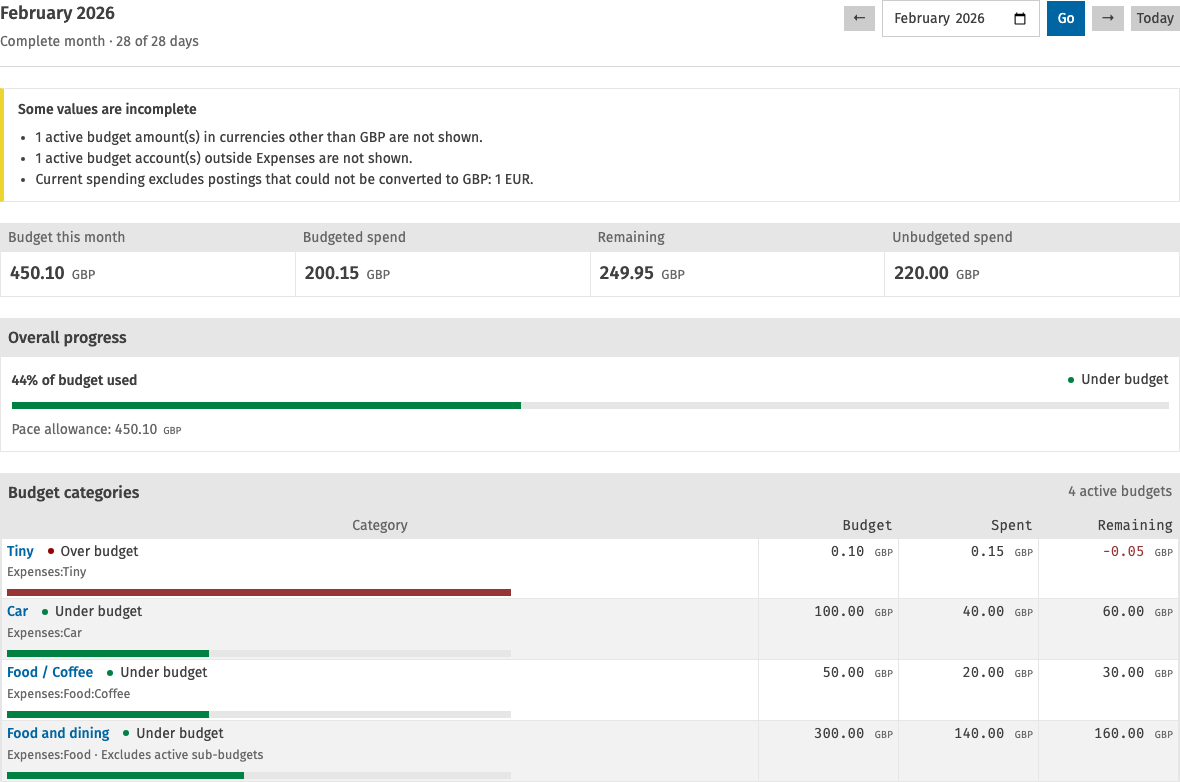
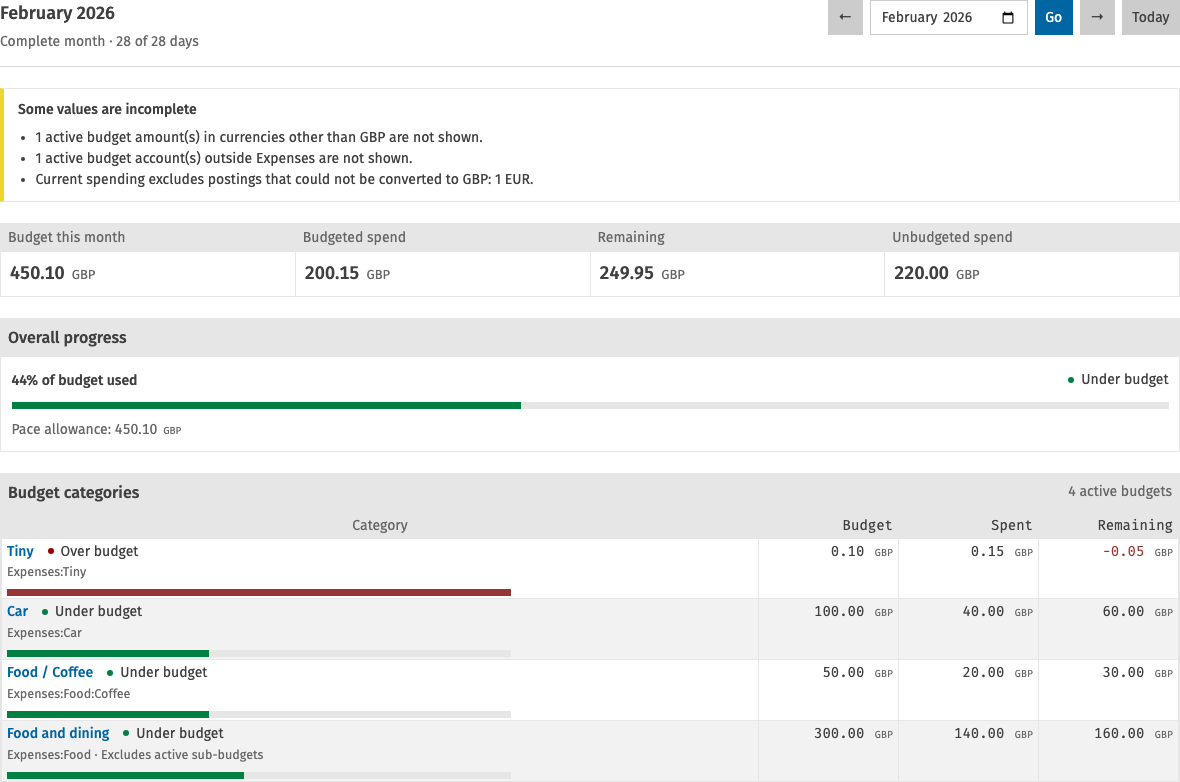
Tighten Fava compatibility and licensing

Changed region(s): [[0.7017, 0.0, 1.0, 0.0614]]

diff --git a/src/fava_budget/templates/Budget.html b/src/fava_budget/templates/Budget.html
@@ -89,6 +89,17 @@
     justify-content: flex-end;
   }
 
+  .budget-page .budget-nav :is(a.button, button, input) {
+    height: 2.5em;
+  }
+
+  .budget-page .budget-nav a.button {
+    display: inline-flex;
+    align-items: center;
+    justify-content: center;
+    padding: 0.5em 0.75em;
+  }
+
   .budget-page .budget-month-form {
     margin: 0;
   }
@@ -356,7 +367,7 @@
     outline-offset: 2px;
   }
 
-  @media (width <= 850px) {
+  @media (width <= 980px) {
     .budget-page .budget-report-heading {
       flex-direction: column;
     }
@@ -371,7 +382,7 @@
     }
   }
 
-  @media (width <= 650px) {
+  @media (width <= 980px) {
     .budget-page > * + * {
       margin-top: 1em;
     }

diff --git a/tests/test_package_data.py b/tests/test_package_data.py
@@ -1,6 +1,7 @@
 from __future__ import annotations
 
 import unittest
+from importlib.metadata import metadata, requires
 from importlib.resources import files
 
 
@@ -12,10 +13,16 @@ class PackageDataTest(unittest.TestCase):
 
         self.assertIn('class="budget-page"', template)
         self.assertIn('class="budget-responsive-table budget-categories"', template)
-        self.assertIn("@media (width <= 650px)", template)
+        self.assertIn("@media (width <= 980px)", template)
         self.assertNotIn("\n  header {", template)
         self.assertNotIn("\n  article {", template)
         self.assertIn("bindBudgetCopyButtons", javascript)
+
+    def test_package_requires_supported_fava_version(self) -> None:
+        self.assertIn("fava<2,>=1.30.8", requires("fava-budget") or [])
+
+    def test_package_declares_mit_license(self) -> None:
+        self.assertEqual(metadata("fava-budget")["License-Expression"], "MIT")
 
 
 if __name__ == "__main__":

diff --git a/README.md b/README.md
@@ -32,7 +32,7 @@ Install the extension directly from GitHub:
 uv add git+https://github.com/lildude/fava-budget.git
 ```
 
-The package supports Python 3.10 or newer and Fava 1.30.
+The package supports Python 3.10 or newer and Fava 1.30.8 or newer.
 
 ## Enable the extension
 
@@ -254,3 +254,7 @@ docker run --rm -p 5000:5000 \
 
 The Budget page uses its own selected calendar month and ignores Fava's global filters. Compare the reconciliation
 total, then check excluded and unconvertible postings.
+
+## License
+
+This project is licensed under the [MIT License](LICENSE). Copyright 2026 Colin Seymour.
